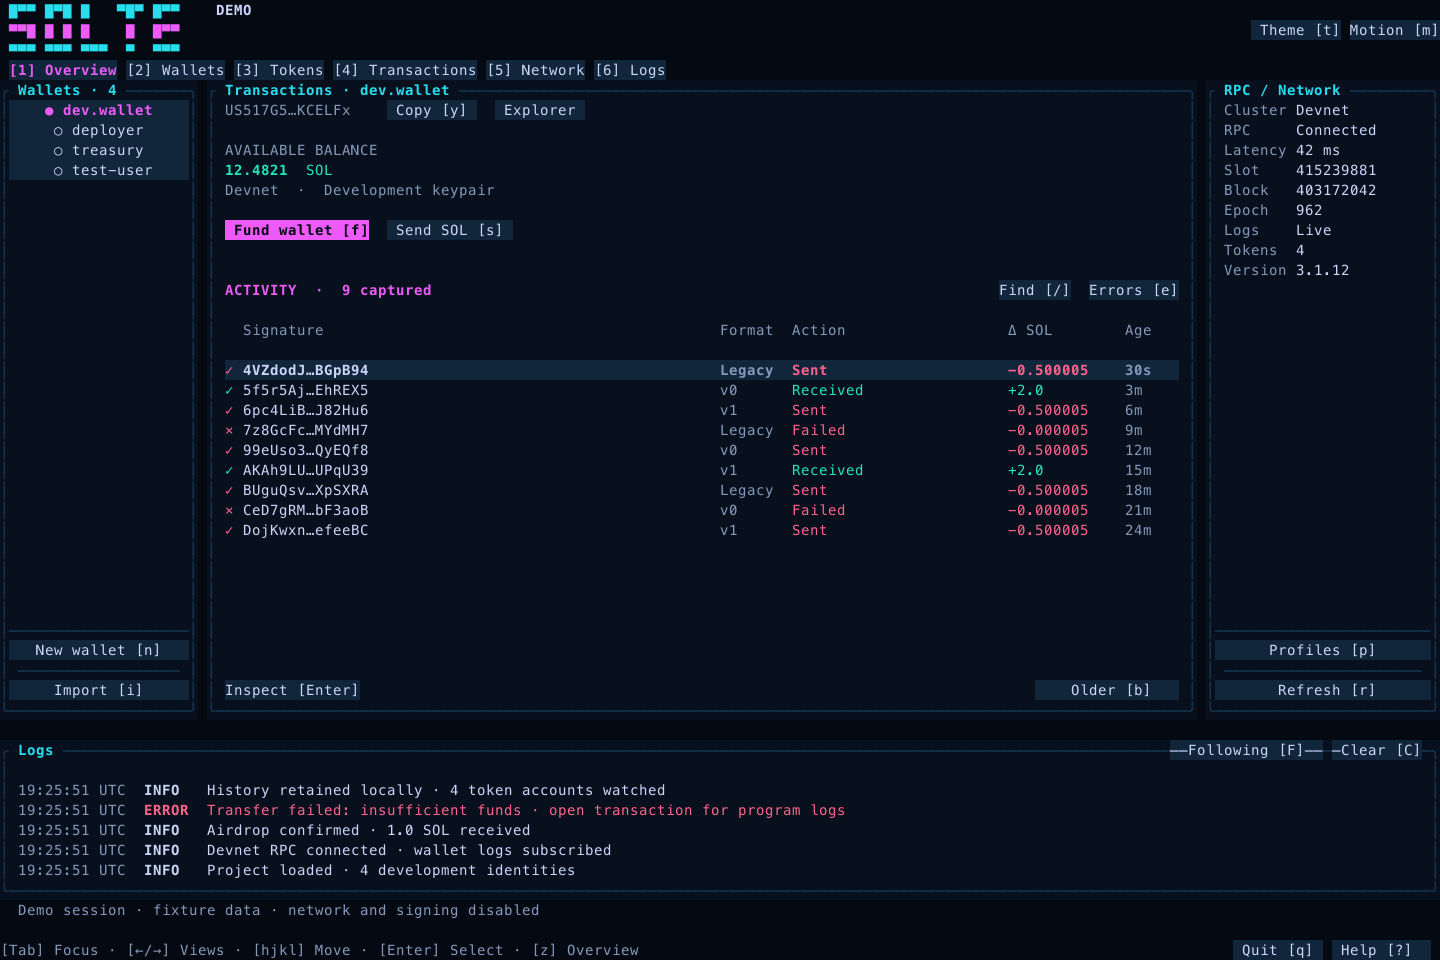
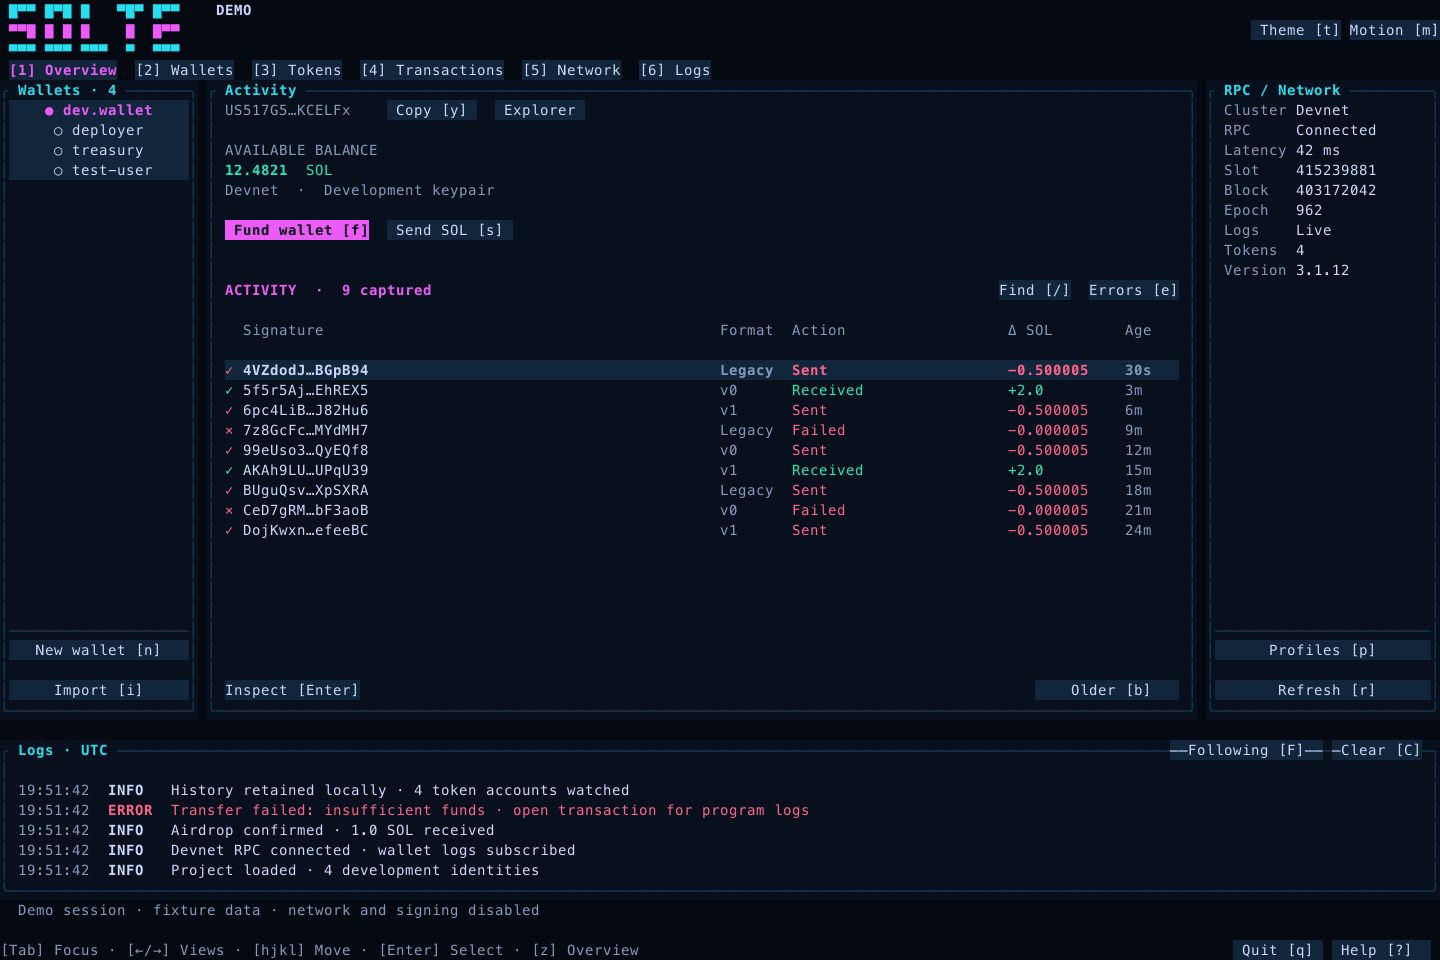
fix(ui): simplify overview summaries without moving panes
- Separate the compact balance and address, shorten activity summaries, and space tabs.
- Abbreviate overview log signatures while preserving full inspection and copying.
- Reduce redundant labels and separators, refresh the preview, and update the local binary.

Changed region(s): [[0.0312, 0.8125, 0.4688, 0.9375], [0.0625, 0.0625, 0.5, 0.125], [0.5, 0.8438, 0.5625, 0.875]]

diff --git a/src/ui/mod.rs b/src/ui/mod.rs
@@ -386,7 +386,7 @@ impl Ui {
                 theme,
                 app.view == *view,
             );
-            x += width + 1;
+            x += width + 2;
         }
         if app.view != View::Overview && area.width > 84 {
             let mut name = clean_text(&app.profile().name);
@@ -507,10 +507,13 @@ impl Ui {
     }
 
     fn wallet(&mut self, frame: &mut Frame, app: &App, area: Rect, theme: Theme) {
-        let title = app
-            .wallet()
-            .map(|w| format!("Transactions · {}", clean_text(&w.name)))
-            .unwrap_or_else(|| "Wallet overview".into());
+        let title = if app.view == View::Overview {
+            "Activity".into()
+        } else {
+            app.wallet()
+                .map(|w| format!("Transactions · {}", clean_text(&w.name)))
+                .unwrap_or_else(|| "Wallet overview".into())
+        };
         let inner = self.panel(frame, app, area, Pane::Wallet, &title, theme);
         let inner = inner.inner(ratatui::layout::Margin::new(1, 0));
         if inner.height < 5 {
@@ -1022,8 +1025,13 @@ impl Ui {
     }
 
     fn logs(&mut self, frame: &mut Frame, app: &App, area: Rect, theme: Theme) {
+        let title = if app.view == View::Overview {
+            "Logs · UTC"
+        } else {
+            "Logs"
+        };
         let inner = self
-            .panel(frame, app, area, Pane::Logs, "Logs", theme)
+            .panel(frame, app, area, Pane::Logs, title, theme)
             .inner(ratatui::layout::Margin::new(1, 0));
         if area.width > 44 {
             self.border_button(
@@ -1131,10 +1139,15 @@ impl Ui {
             let y = inner.y + row as u16 * row_height;
             let seconds = entry.timestamp % 86_400;
             let time = format!(
-                "{:02}:{:02}:{:02} UTC",
+                "{:02}:{:02}:{:02}{}",
                 seconds / 3600,
                 seconds / 60 % 60,
-                seconds % 60
+                seconds % 60,
+                if app.view == View::Overview {
+                    ""
+                } else {
+                    " UTC"
+                }
             );
             let color = theme.log_color(&entry.level);
             let rect = Rect::new(inner.x, y, inner.width, if detailed { 2 } else { 1 });
@@ -1152,7 +1165,11 @@ impl Ui {
                             "[Enter] details".into()
                         }
                     } else {
-                        clean_text(&entry.message).replace('\n', " · ")
+                        if app.view == View::Overview {
+                            fit_summary(&entry.preview(), inner.width.saturating_sub(17))
+                        } else {
+                            clean_text(&entry.message).replace('\n', " · ")
+                        }
                     },
                     Style::default().fg(if detailed { theme.muted } else { color }),
                 ),
@@ -1894,6 +1911,25 @@ impl Ui {
             );
         }
     }
+}
+
+fn fit_summary(text: &str, width: u16) -> String {
+    if Line::from(text).width() <= usize::from(width) {
+        return text.into();
+    }
+    let mut result = String::new();
+    let mut columns = 0;
+    for character in text.chars() {
+        columns += Line::from(character.to_string()).width();
+        if columns > usize::from(width.saturating_sub(1)) {
+            break;
+        }
+        result.push(character);
+    }
+    if width > 0 {
+        result.push('…');
+    }
+    result
 }
 
 fn centered(area: Rect, width: u16, height: u16) -> Rect {

diff --git a/src/ui/short.rs b/src/ui/short.rs
@@ -68,7 +68,7 @@ impl Ui {
                 theme,
                 app.view == *view,
             );
-            x += width + 1;
+            x += width + if area.width >= 80 { 2 } else { 1 };
         }
         let body = Rect::new(area.x, area.y + 2, area.width, area.height - 3);
         self.workspace(frame, app, body, theme);
@@ -202,7 +202,7 @@ impl Ui {
             if app.view == View::Activity {
                 "Transactions"
             } else {
-                "Wallet activity"
+                "Activity"
             },
             theme,
         );
@@ -211,18 +211,36 @@ impl Ui {
             return;
         };
         let balance = app.balance.map(format_sol).unwrap_or_else(|| "—".into());
-        frame.render_widget(
-            Paragraph::new(format!(
-                " {} · {balance} SOL{} · {}",
-                clean_text(&wallet.name),
-                if !app.connected { " · stale" } else { "" },
-                short(&wallet.address)
-            ))
-            .style(Style::default().fg(theme.green)),
-            Rect::new(inner.x, inner.y, inner.width, 1),
-        );
+        let summary = app.view == View::Overview && inner.height >= 7;
+        let header_rows = if summary { 2 } else { 1 };
+        if summary {
+            frame.render_widget(
+                Paragraph::new(format!(
+                    " {balance} SOL{}",
+                    if !app.connected { " · stale" } else { "" }
+                ))
+                .style(Style::default().fg(theme.green).bold()),
+                Rect::new(inner.x, inner.y, inner.width, 1),
+            );
+            frame.render_widget(
+                Paragraph::new(format!(" {}", short(&wallet.address)))
+                    .style(Style::default().fg(theme.muted)),
+                Rect::new(inner.x, inner.y + 1, inner.width, 1),
+            );
+        } else {
+            frame.render_widget(
+                Paragraph::new(format!(
+                    " {} · {balance} SOL{} · {}",
+                    clean_text(&wallet.name),
+                    if !app.connected { " · stale" } else { "" },
+                    short(&wallet.address)
+                ))
+                .style(Style::default().fg(theme.green)),
+                Rect::new(inner.x, inner.y, inner.width, 1),
+            );
+        }
         let mut x = inner.x;
-        let mut toolbar_y = inner.y + 1;
+        let mut toolbar_y = inner.y + header_rows;
         let actions = [
             ("Fund [f]", Action::Fund),
             ("Send [s]", Action::Send),
@@ -289,7 +307,9 @@ impl Ui {
                     if record.error.is_some() { "×" } else { "✓" },
                     short(&record.signature),
                     record.activity(app.wallet().map(|w| w.address.as_str()).unwrap_or_default()),
-                    if inner.width >= 52 {
+                    if app.view == View::Overview {
+                        String::new()
+                    } else if inner.width >= 52 {
                         format!("  slot {}", record.slot)
                     } else if inner.width >= 44 {
                         format!("  {}", record.slot)

diff --git a/src/runtime.rs b/src/runtime.rs
@@ -259,7 +259,7 @@ pub async fn run(mut app: App, offline: bool) -> Result<()> {
                             app.token_genesis = None; app.token_error = None; app.token_warnings.clear();
                         }
                         if !matches!(app.refresh, RefreshState::Pending(_)) {
-                            app.status = format!("{} · confirmed activity · captured history stored locally", network.cluster);
+                            app.status = format!("{} · {}", network.cluster, if network.healthy { "connected" } else { "RPC health warning" });
                         }
                         app.network = Some(network); app.balance = balance; app.connected = true; app.last_update = Some(Instant::now());
                     },

diff --git a/src/ui/layout.rs b/src/ui/layout.rs
@@ -169,16 +169,6 @@ impl Ui {
                     .style(Style::default().fg(theme.border)),
                 Rect::new(inner.x, content.bottom(), inner.width, 1),
             );
-            frame.render_widget(
-                Paragraph::new("─".repeat(inner.width.saturating_sub(2) as usize))
-                    .style(Style::default().fg(theme.border)),
-                Rect::new(
-                    inner.x + 1,
-                    inner.bottom() - 2,
-                    inner.width.saturating_sub(2),
-                    1,
-                ),
-            );
         }
     }
 

diff --git a/src/model.rs b/src/model.rs
@@ -170,6 +170,16 @@ pub struct LogEntry {
 }
 
 impl LogEntry {
+    pub fn preview(&self) -> String {
+        let mut text = clean_text(&self.message).replace('\n', " · ");
+        for value in self.message.split(|c: char| !c.is_ascii_alphanumeric()) {
+            if value.parse::<solana_signature::Signature>().is_ok() {
+                text = text.replace(value, &short(value));
+            }
+        }
+        text
+    }
+
     pub fn signature(&self) -> Option<String> {
         self.message
             .split(|c: char| !c.is_ascii_alphanumeric())

diff --git a/src/app.rs b/src/app.rs
@@ -68,6 +68,9 @@ impl View {
         }
     }
     pub fn nav_label(self, width: u16) -> &'static str {
+        if self == Self::Activity && width < 110 {
+            return "Txns";
+        }
         if width < 80 {
             match self {
                 Self::Overview => "Home",

diff --git a/docs/usage.md b/docs/usage.md
@@ -198,3 +198,5 @@ cargo test --test localnet -- --ignored
 python3 scripts/terminal_smoke.py --binary target/release/solte --format v1 \
   --local-rpc http://127.0.0.1:18899 --local-ws ws://127.0.0.1:18900
 ```
+
+Overview keeps the same left-wallet, center-activity, right-network and bottom-log arrangement. Compact summaries separate balance from address, omit activity slot numbers, and abbreviate signatures in logs. Open a transaction or log entry to inspect and copy the original full values. Tabs use shorter labels where needed to preserve spacing.
